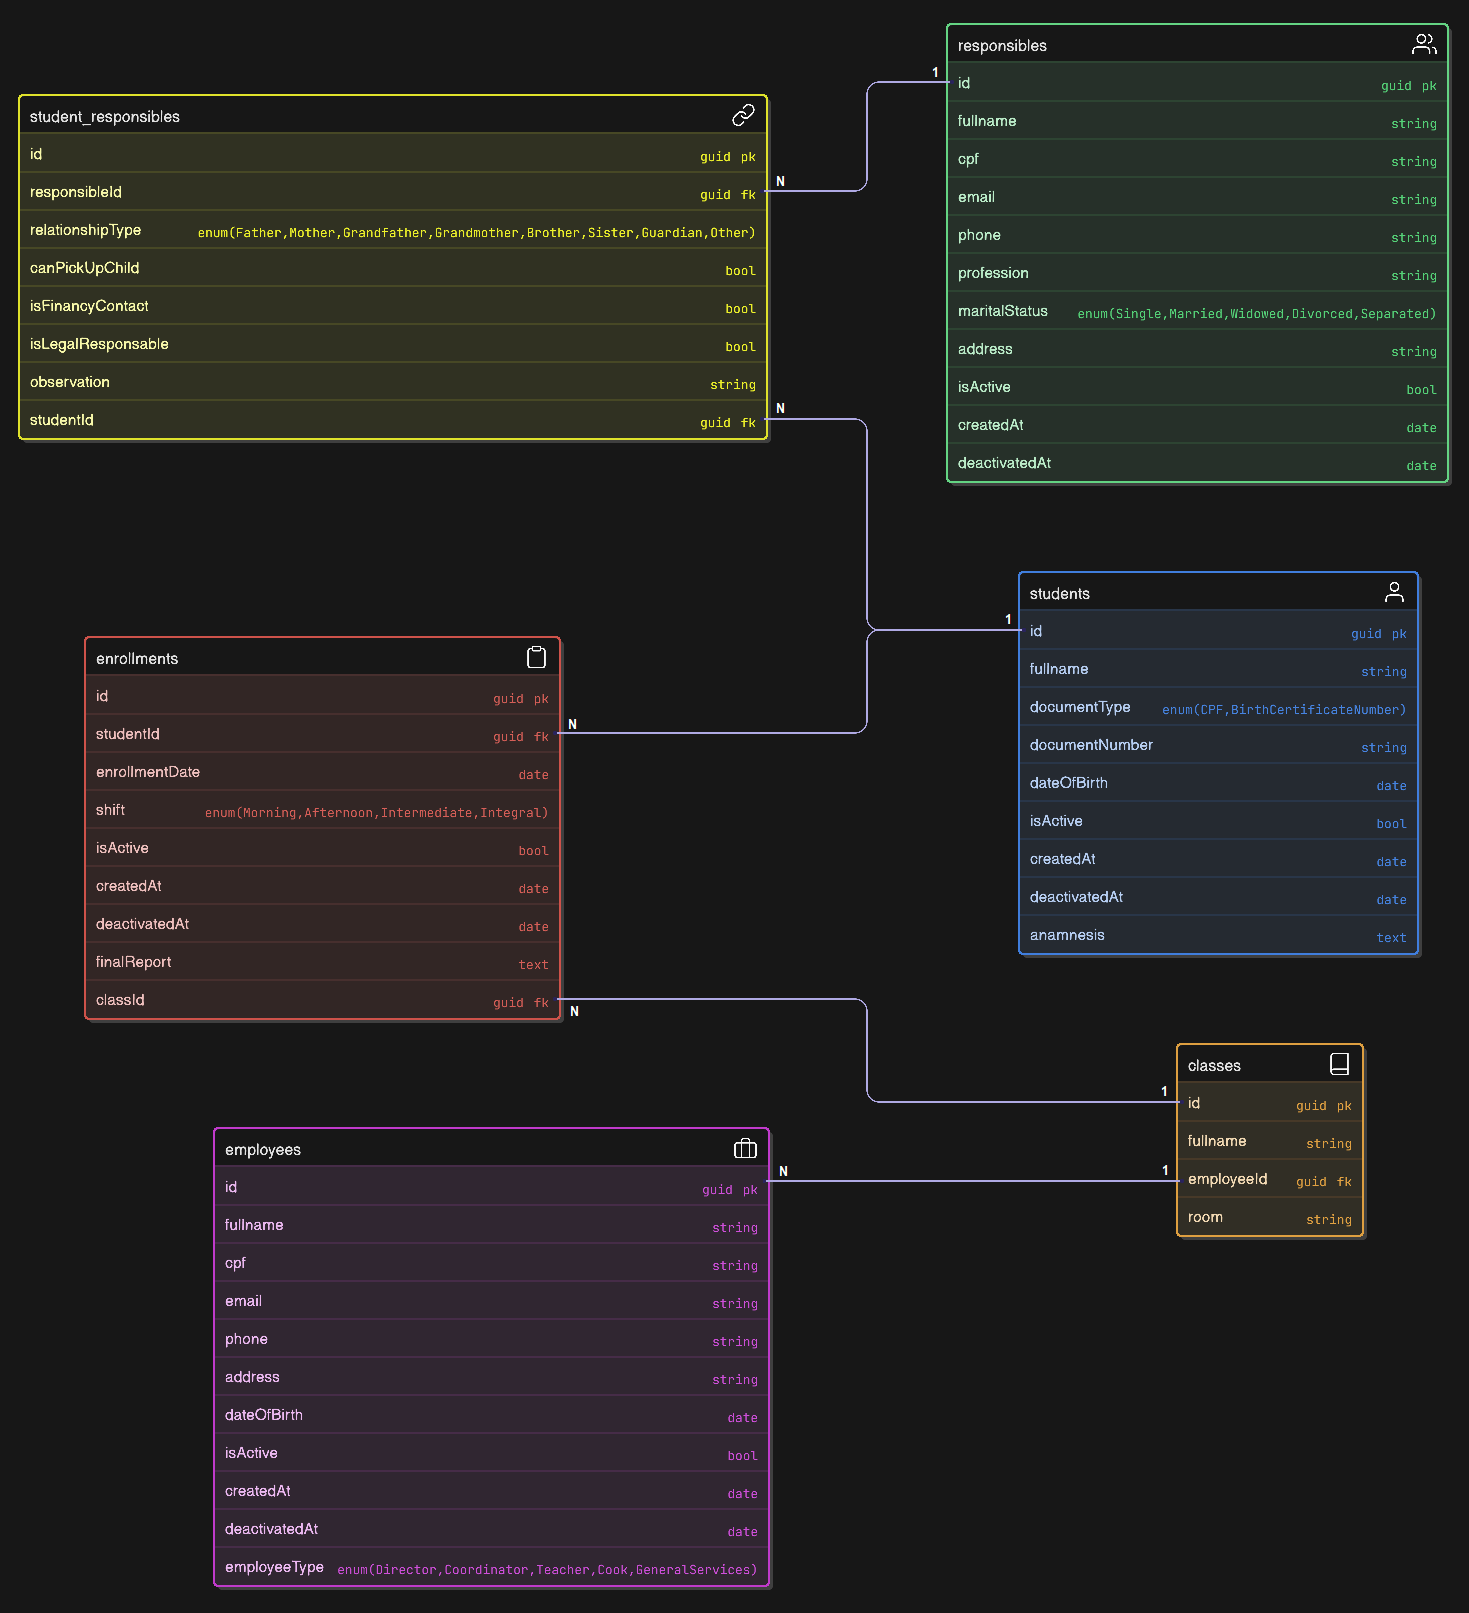
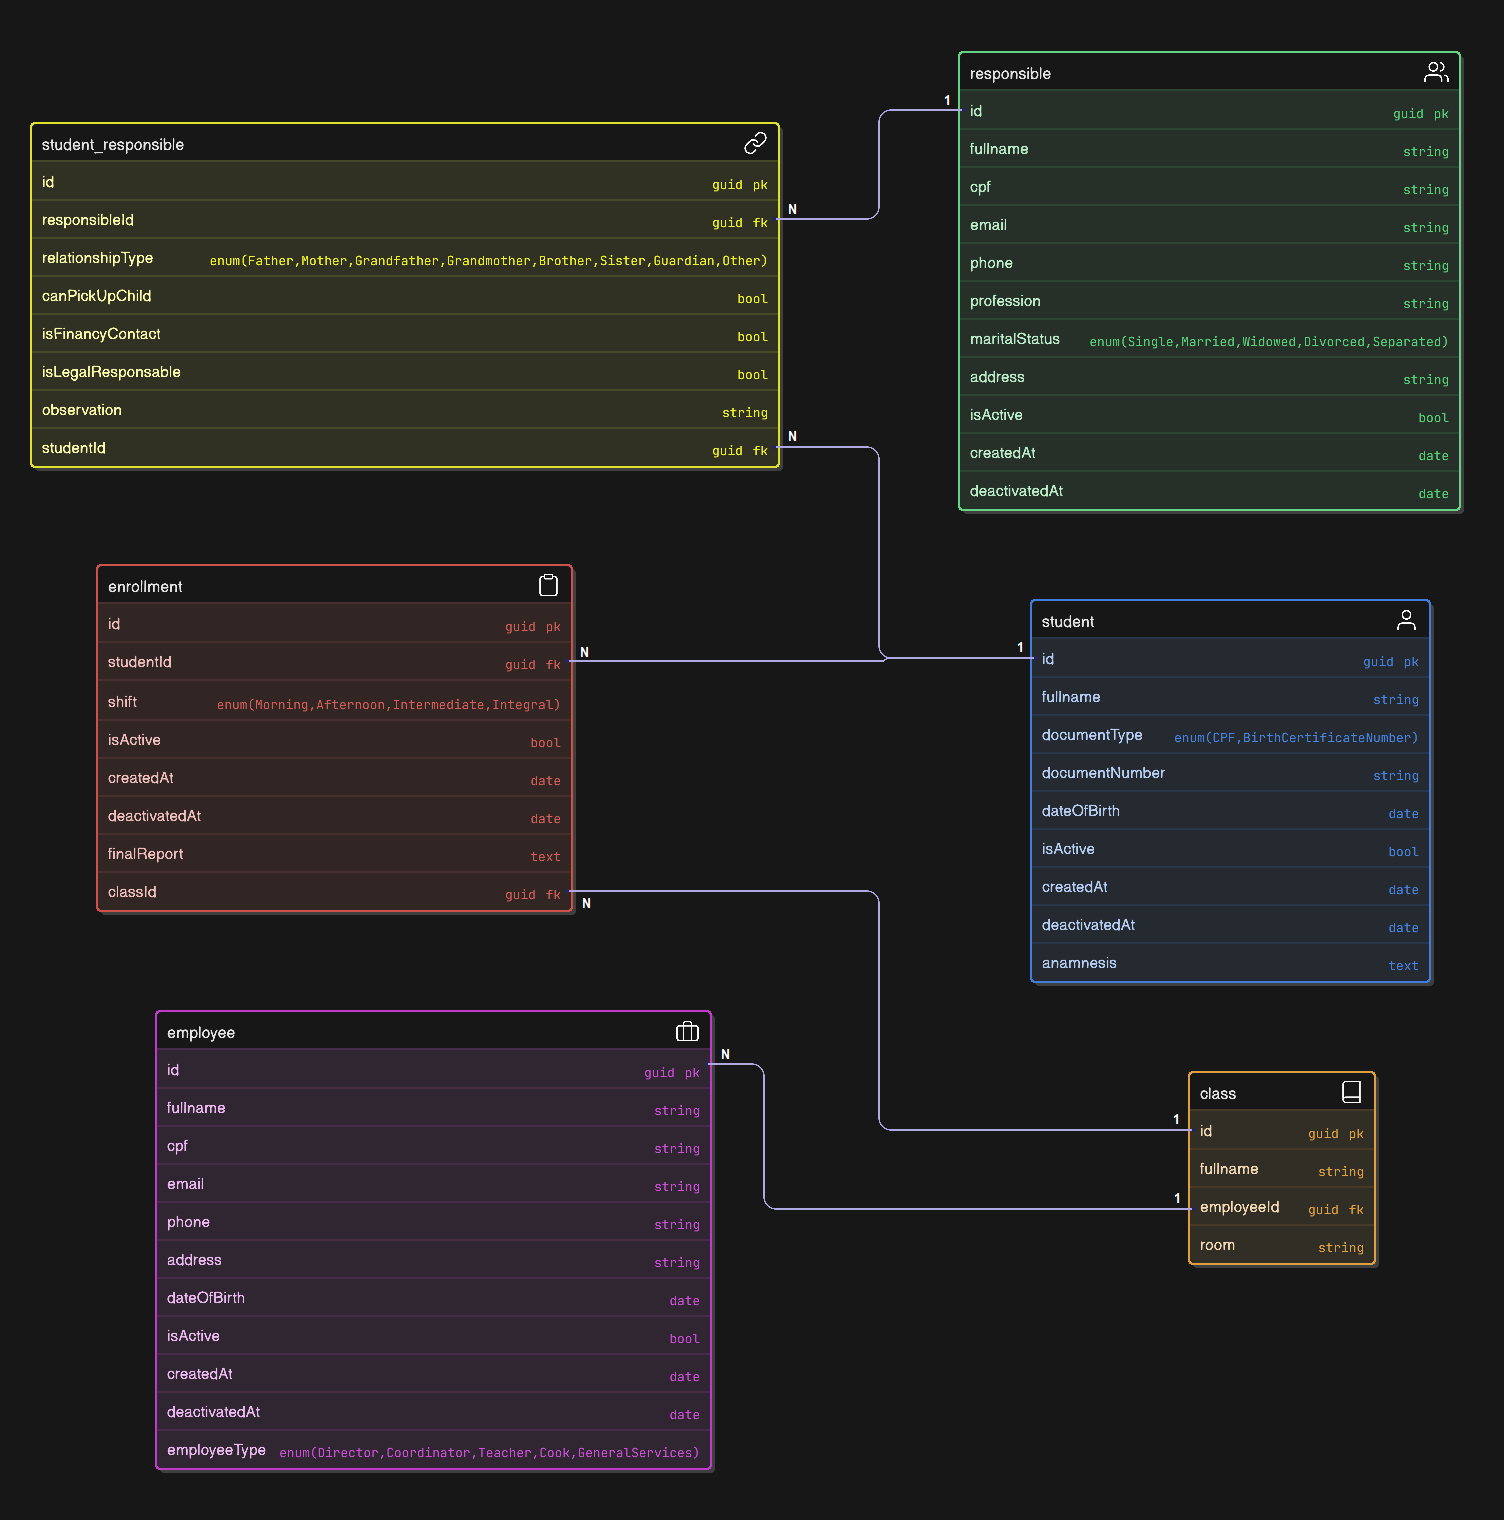
Refactor: Start of the changes to match with the ERD created and uploaded on previous push:
- On student entity: Include document type (enum) and number, update related DTOs and services;
- Add student anamnesis entity

diff --git a/backend/School.Api/Application/Services/StudentService.cs b/backend/School.Api/Application/Services/StudentService.cs
@@ -14,6 +14,7 @@ using School.Api.Application.DTOs.Students;
 
 // Importante Exception personalizada para regras de negócio
 using School.Api.Application.Common;
+using School.Api.Domain.Enums;
 
 namespace School.Api.Application.Services
 {
@@ -141,17 +142,11 @@ namespace School.Api.Application.Services
             if (!string.IsNullOrWhiteSpace(filter.Name))
                 query = query.Where(s => s.FullName.Contains(filter.Name));
             
-            if (!string.IsNullOrWhiteSpace(filter.Email))
-                query = query.Where(s => s.Email.Contains(filter.Email));
+            if (!string.IsNullOrWhiteSpace(filter.DocumentNumber))
+                query = query.Where(s => s.DocumentNumber.Contains(filter.DocumentNumber));
 
             if (filter.CreatedAfter.HasValue)
                 query = query.Where(s => s.CreatedAt >= filter.CreatedAfter.Value);
-
-            if (!string.IsNullOrWhiteSpace(filter.Cpf))
-                query = query.Where(s => s.Cpf.Contains(filter.Cpf));
-            
-            if (!string.IsNullOrWhiteSpace(filter.BirthCertificateNumber))
-                query = query.Where(s => s.BirthCertificateNumber.Contains(filter.BirthCertificateNumber));
 
             /* query.ToListAsync()  ==> Aqui o EF Core:
                 - Junta todos os filtros
@@ -177,7 +172,8 @@ namespace School.Api.Application.Services
             {
                 Id = s.Id,
                 FullName = s.FullName,
-                Email = s.Email,
+                DocumentType = s.DocumentType.ToString(),
+                DocumentNumber = s.DocumentNumber,
                 DateOfBirth = s.DateOfBirth,
                 IsActive = s.IsActive
             });
@@ -204,7 +200,8 @@ namespace School.Api.Application.Services
             {
                 Id = student.Id,
                 FullName = student.FullName,
-                Email = student.Email,
+                DocumentType = student.DocumentType.ToString(),
+                DocumentNumber = student.DocumentNumber,
                 DateOfBirth = student.DateOfBirth,
                 IsActive = student.IsActive
             };
@@ -214,18 +211,24 @@ namespace School.Api.Application.Services
 
         public async Task<Result<StudentResponseDto>> CreateAsync(CreateStudentDto dto)
         {   
-            if (string.IsNullOrWhiteSpace(dto.Cpf) &&
-                string.IsNullOrWhiteSpace(dto.BirthCertificateNumber))
+            /*  Enum.IsDefined(...) faz a verificação se o valor enviado no dto.DocumentType é um valor 
+                válido definido no enum DocumentType (CPF ou Certidão). 
+                string.IsNullOrWhiteSpace(...) verifica se o número do documento é nulo, vazio ou composto 
+                apenas por espaços em branco. 
+                Se qualquer uma dessas condições for verdadeira, significa que os dados do documento são 
+                inválidos, e o método retorna um resultado de falha com uma mensagem de erro apropriada. */
+            if (!Enum.IsDefined(typeof(DocumentType), dto.DocumentType) ||
+                string.IsNullOrWhiteSpace(dto.DocumentNumber))
             {
                 return Result<StudentResponseDto>.Fail(
-                    "Aluno deve possuir CPF ou número da certidão.",
+                    "Tipo e número do documento são obrigatórios.",
                     ErrorType.Validation);
             }
             
             // Verifica se já existe aluno com mesmo email no banco. 
             // Se não existir o banco responde com null
             var existingStudent = await _context.Students
-                .FirstOrDefaultAsync(s => s.Cpf == dto.Cpf || s.BirthCertificateNumber == dto.BirthCertificateNumber);
+                .FirstOrDefaultAsync(s => s.DocumentType == dto.DocumentType && s.DocumentNumber == dto.DocumentNumber);
 
             if (existingStudent != null)
             {
@@ -235,9 +238,8 @@ namespace School.Api.Application.Services
                 {
                     Id = existingStudent.Id,
                     FullName = existingStudent.FullName,
-                    Cpf = existingStudent.Cpf,
-                    BirthCertificateNumber = existingStudent.BirthCertificateNumber,
-                    Email = existingStudent.Email,
+                    DocumentType = existingStudent.DocumentType.ToString(),
+                    DocumentNumber = existingStudent.DocumentNumber,
                     DateOfBirth = existingStudent.DateOfBirth
                 };
 
@@ -259,7 +261,8 @@ namespace School.Api.Application.Services
             {
                 Id = Guid.NewGuid(),           // Gera identificador único. Evita dependência do banco para gerar ID. Boa prática para sistemas distribuídos.
                 FullName = dto.FullName,       // Vem do DTO
-                Email = dto.Email,             // Vem do DTO
+                DocumentType = dto.DocumentType, // Vem do DTO
+                DocumentNumber = dto.DocumentNumber, // Vem do DTO
                 DateOfBirth = dto.DateOfBirth, // Vem do DTO
                 IsActive = true,               // Regra de negócio
                 CreatedAt = DateOnly.FromDateTime(DateTime.UtcNow)    // Backend controla
@@ -274,7 +277,8 @@ namespace School.Api.Application.Services
             {
                 Id = student.Id,
                 FullName = student.FullName,
-                Email = student.Email,
+                DocumentType = student.DocumentType.ToString(),
+                DocumentNumber = student.DocumentNumber,
                 DateOfBirth = student.DateOfBirth
             };
 
@@ -298,12 +302,12 @@ namespace School.Api.Application.Services
                 return Result<StudentResponseDto>.Fail("Aluno está inativo. Reative para atualizar.", ErrorType.Conflict);
             }
 
-            if (student.Email != dto.Email)
+            if (student.DocumentNumber != dto.DocumentNumber)
             {
-                // Verificar se o novo email já existe para outro aluno
-                var emailExists = await _context.Students.AnyAsync(s => s.Email == dto.Email && s.Id != id);
+                // Verificar se o novo número do documento já existe para outro aluno
+                var documentExists = await _context.Students.AnyAsync(s => s.DocumentNumber == dto.DocumentNumber && s.Id != id);
 
-                if (emailExists)
+                if (documentExists)
                 {
                     return Result<StudentResponseDto>.Fail("Já existe outro aluno com este email.", ErrorType.Conflict);
                 }
@@ -312,7 +316,8 @@ namespace School.Api.Application.Services
             // Se encontrou o aluno pelo ID e está ativo, a variável studente não será null, logo o método não executou o return acima, 
             // passando para o passo abaixo onde atualiza os campos do student, usando as informações recebidas no DTO de atualização (UpdateStudentDto).
             student.FullName = dto.FullName;
-            student.Email = dto.Email;
+            student.DocumentType = dto.DocumentType;
+            student.DocumentNumber = dto.DocumentNumber;
             student.DateOfBirth = dto.DateOfBirth;
 
             // Salva no banco e retorna true para indicar sucesso
@@ -322,7 +327,8 @@ namespace School.Api.Application.Services
             {
                 Id = student.Id,
                 FullName = student.FullName,
-                Email = student.Email,
+                DocumentType = student.DocumentType.ToString(),
+                DocumentNumber = student.DocumentNumber,
                 DateOfBirth = student.DateOfBirth,
                 IsActive = student.IsActive
             };
@@ -336,18 +342,12 @@ namespace School.Api.Application.Services
 
             if (student == null)
             {
-                return Result<bool>.Fail(
-                    "Aluno não encontrado.",
-                    ErrorType.NotFound
-                );
+                return Result<bool>.Fail("Aluno não encontrado.", ErrorType.NotFound);
             }
 
             if (!student.IsActive)
             {
-                return Result<bool>.Fail(
-                    "Aluno já está inativo.",
-                    ErrorType.Conflict
-                );
+                return Result<bool>.Fail("Aluno já está inativo.", ErrorType.Conflict);
             }
 
             // Soft Delete: Em vez de remover o registro, marcamos como inativo
@@ -378,7 +378,8 @@ namespace School.Api.Application.Services
             {
                 Id = student.Id,
                 FullName = student.FullName,
-                Email = student.Email,
+                DocumentType = student.DocumentType.ToString(),
+                DocumentNumber = student.DocumentNumber,
                 DateOfBirth = student.DateOfBirth,
                 IsActive = student.IsActive
             };

diff --git a/backend/School.Api/Domain/Entities/Student.cs b/backend/School.Api/Domain/Entities/Student.cs
@@ -1,4 +1,5 @@
 using Microsoft.EntityFrameworkCore;
+using School.Api.Domain.Enums;
 
 namespace School.Api.Domain.Entities
 {
@@ -7,24 +8,17 @@ namespace School.Api.Domain.Entities
             - Representa algo do mundo real (Aluno, Professor, Turma…)
             - Vira uma tabela no banco de dados
             - É usada pelo Entity Framework Core para persistência
+            - Contém apenas regras estruturais do domínio
     
         Neste caso aqui, esta Entity (Student.cs) representa um aluno da escola.
         Esta classe será mapeada para a tabela Students no banco de dados.
     */
 
-    [Index(nameof(Email), IsUnique = true)]
-    /* O que isso faz?
-    Diz ao EF Core que Email deve ser único no banco.
-    Quando gerar migration → cria UNIQUE INDEX no banco
-    Agora o banco garante integridade de não existir dois Alunos com o mesmo email.
-    Já havíamos inserido um controle de regra de negódio no StudentService.cs (metódo CreateAsync), 
-    mas o índice no banco é uma camada adicional de segurança. */
-
     public class Student
     {
-        /// Identificador único do aluno.
-        /// Chave primária da tabela.
-        /// "Guid Id" melhor que int em APIs modernas. Evita conflitos. Muito usado em sistemas distribuídos.
+        // Identificador único do aluno.
+        // Chave primária da tabela.
+        // "Guid Id" melhor que int em APIs modernas. Evita conflitos. Muito usado em sistemas distribuídos.
         public Guid Id { get; set; }
         
         /// Nome completo do aluno.
@@ -33,13 +27,14 @@ namespace School.Api.Domain.Entities
         /// Data de nascimento do aluno.
         public DateOnly DateOfBirth { get; set; }
 
-        /// CPF do aluno.
-        public string? Cpf { get; set; } = string.Empty;
+        /// Tipo do documento (CPF ou Certidão)
+        public DocumentType DocumentType { get; set; }
 
-        // Número da certidão de nascimento
-        public string? BirthCertificateNumber { get; set; }
+        /// Número do documento (CPF ou Certidão)
+        public string DocumentNumber { get; set; } = string.Empty;
 
-        public string? Email { get; set; } = string.Empty;
+        /// Ficha médica/anamnese (vem da entidade StudentAnamnesis.cs)
+        public StudentAnamnesis? Anamnesis { get; set; }
 
         /// "IsActive { get; set; } = true" - Indica se o aluno está ativo no sistema.
         /*  Em vez de excluir o aluno do banco, podemos desativar (IsActive = false), fazendo que 

diff --git a/backend/School.Api/Application/DTOs/Students/CreateStudentDto.cs b/backend/School.Api/Application/DTOs/Students/CreateStudentDto.cs
@@ -1,4 +1,5 @@
 using System.ComponentModel.DataAnnotations;
+using School.Api.Domain.Enums;
 
 namespace School.Api.Application.DTOs.Students
 {
@@ -15,14 +16,14 @@ namespace School.Api.Application.DTOs.Students
         // Data de nascimento do aluno. Obrigatório.
         [Required(ErrorMessage = "A data de nascimento é obrigatória.")]
         public DateOnly DateOfBirth { get; set; } // Valor padrão para evitar nulls
-    
-        public string? Cpf { get; set; } = string.Empty;
 
-        // Número da certidão de nascimento
-        public string? BirthCertificateNumber { get; set; }
+        [Required(ErrorMessage = "O tipo de documento é obrigatório.")]
+        public DocumentType DocumentType { get; set; }
 
-        // Email do aluno. 
-        [EmailAddress(ErrorMessage = "Formato de email inválido.")]
-        public string Email { get; set; } = string.Empty;
+        [Required(ErrorMessage = "O número do documento é obrigatório.")]
+        public string DocumentNumber { get; set; } = string.Empty;
+
+        // Ficha médica/anamnese
+        public string Anamnesis { get; set; } = string.Empty;
     }
 }

diff --git a/backend/School.Api/Infrastructure/Configurations/StudentConfiguration.cs b/backend/School.Api/Infrastructure/Configurations/StudentConfiguration.cs
@@ -21,21 +21,18 @@ public class StudentConfiguration : IEntityTypeConfiguration<Student>
                .IsRequired()
                .HasMaxLength(8);
 
-        builder.Property(s => s.Cpf)
-               .HasMaxLength(11);
+        builder.Property(s => s.DocumentType)
+               .HasMaxLength(11); 
 
-        builder.Property(s => s.BirthCertificateNumber)
-               .HasMaxLength(32);
-        
-        builder.Property(s => s.Email)
-               .HasMaxLength(100);
+        builder.Property(s => s.DocumentNumber)
+              .IsRequired()
+              .HasMaxLength(32);
 
-        // índice único para CPF
-        builder.HasIndex(s => s.Cpf)
+        builder.HasIndex(s => s.DocumentNumber)
                .IsUnique();
 
-        // índice único para certidão
-        builder.HasIndex(s => s.BirthCertificateNumber)
-               .IsUnique();
+        builder.HasOne(s => s.Anamnesis)
+       .WithOne(a => a.Student)
+       .HasForeignKey<StudentAnamnesis>(a => a.StudentId);
     }
 }

diff --git a/backend/School.Api/Application/DTOs/Students/UpdateStudentDto.cs b/backend/School.Api/Application/DTOs/Students/UpdateStudentDto.cs
@@ -1,4 +1,5 @@
 using System.ComponentModel.DataAnnotations;
+using School.Api.Domain.Enums;
 
 namespace School.Api.Application.DTOs.Students
 {
@@ -12,10 +13,9 @@ namespace School.Api.Application.DTOs.Students
         [MinLength(5, ErrorMessage = "O nome deve ter pelo menos 5 caracteres.")]
         public string FullName { get; set; } = string.Empty;
 
-        // Email do aluno. Obrigatório.
-        [Required(ErrorMessage = "O email é obrigatório.")]
-        [EmailAddress(ErrorMessage = "Formato de email inválido.")]
-        public string Email { get; set; } = string.Empty;
+        public DocumentType DocumentType { get; set; }
+        
+        public string DocumentNumber { get; set; } = string.Empty;
 
         // Data de nascimento do aluno. Obrigatório.
         [Required(ErrorMessage = "A data de nascimento é obrigatória.")]

diff --git a/backend/School.Api/Application/DTOs/Students/StudentResponseDto.cs b/backend/School.Api/Application/DTOs/Students/StudentResponseDto.cs
@@ -11,11 +11,9 @@ namespace School.Api.Application.DTOs.Students
 
         public DateOnly DateOfBirth { get; set; }
 
-        public string Cpf { get; set; } = string.Empty;
+        public string DocumentType { get; set; }
 
-        public string BirthCertificateNumber { get; set; } = string.Empty;
-
-        public string Email { get; set; } = string.Empty;
+        public string DocumentNumber { get; set; } = string.Empty;
 
         public bool IsActive { get; set; }
 

diff --git a/backend/School.Api/Domain/Entities/StudentAnamnesis.cs b/backend/School.Api/Domain/Entities/StudentAnamnesis.cs
@@ -1,0 +1,18 @@
+using School.Api.Domain.Entities;
+
+public class StudentAnamnesis
+{
+    public Guid Id { get; set; }
+
+    public Guid StudentId { get; set; }
+    
+    public Student Student { get; set; } = null!;
+
+    /// Texto completo da ficha
+    public string Content { get; set; } = string.Empty;
+
+    public DateOnly CreatedAt { get; set; }
+        = DateOnly.FromDateTime(DateTime.UtcNow);
+
+    public DateOnly? UpdatedAt { get; set; }
+}

diff --git a/backend/School.Api/Application/DTOs/Students/StudentFilterDto.cs b/backend/School.Api/Application/DTOs/Students/StudentFilterDto.cs
@@ -4,10 +4,8 @@ public class StudentFilterDto
 {
     public bool? IsActive { get; set; }
     public string? Name { get; set; }
-    public string? Email { get; set; }
+    public string? DocumentNumber { get; set; }
     public DateOnly? CreatedAfter { get; set; }
     public int? MinAge { get; set; }
     public int? MaxAge { get; set; }
-    public string? Cpf { get; set; } 
-    public string? BirthCertificateNumber { get; set; }
 }

diff --git a/backend/School.Api/Domain/Enums/DocumentType.cs b/backend/School.Api/Domain/Enums/DocumentType.cs
@@ -1,0 +1,18 @@
+namespace School.Api.Domain.Enums
+{
+    /*
+        Enum representa os tipos possíveis de documento do aluno.
+
+        Vantagens:
+        - Evita strings inválidas
+        - Facilita validação
+        - Melhora legibilidade
+        - EF Core salva automaticamente como int (por padrão)
+    */
+    public enum DocumentType
+    {
+        CPF = 1,
+        
+        BirthCertificateNumber = 2
+    }
+}

diff --git a/README.md b/README.md
@@ -275,6 +275,7 @@ Cada etapa é explicada e versionada neste repositório.
    - Nem sempre `DateTime` é a melhor escolha.
    - Problemas de timezone são comuns em aplicações reais.
    - Modelagem correta de dados evita bugs sutis no frontend.
+   <br>
 
 🔴 Problema: Codificação "On-the-Fly" sem Modelagem Prévia (DER)
 
@@ -288,7 +289,7 @@ Cada etapa é explicada e versionada neste repositório.
 
    Interrupção do Desenvolvimento: Pausa estratégica no código para focar na arquitetura de dados.
 
-   Modelagem de Dados (DER): Planejamento completo das entidades (Students, Responsibles, Enrollments, Employees, Classes) e seus relacionamentos (1:N e N:N).
+   Modelagem de Dados (DER): Planejamento completo das entidades (Student, Responsible, Enrollment, Employee, Class) e seus relacionamentos (1:N e N:N).
 
    Normalização: Criação da tabela associativa Student_Responsibles para permitir que um aluno tenha múltiplos responsáveis e vice-versa.
 
